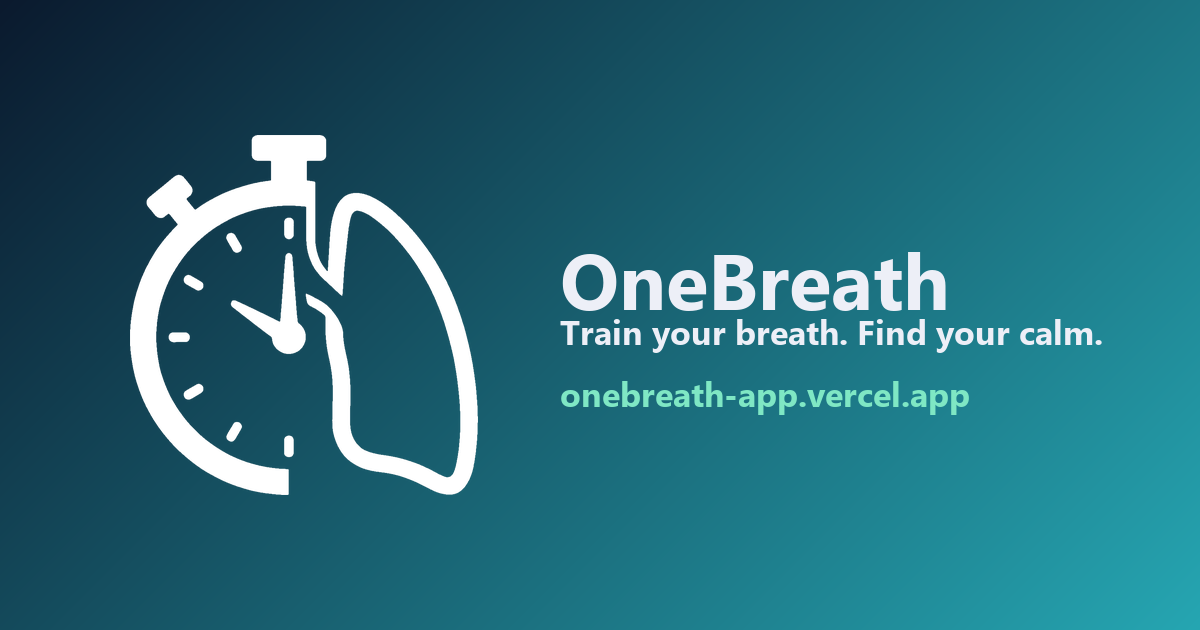
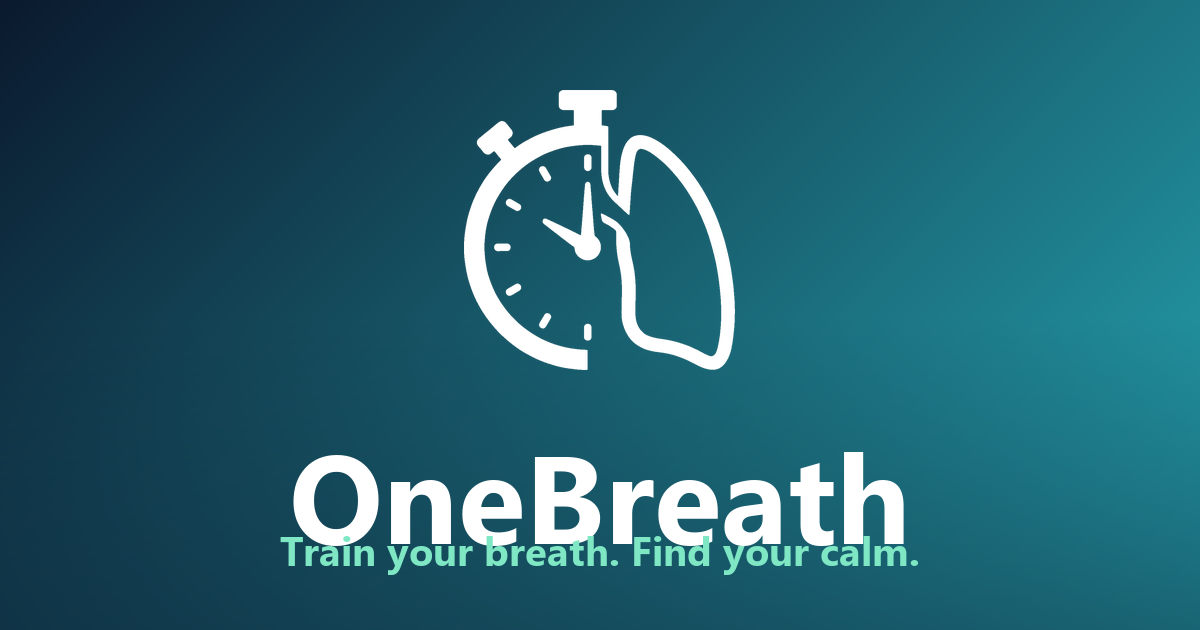
feat(web): bolder OG image for small previews
Redesigned 1200x630 social card so it stays legible at the small sizes Threads/X render previews at: large centred logo, huge bold title, mint tagline, soft vignette under the text for guaranteed contrast against the gradient.

Changed region(s): [[0.0308, 0.1206, 1.0, 1.0]]

diff --git a/scripts/generate_icons.py b/scripts/generate_icons.py
@@ -127,45 +127,48 @@ def load_font(size: int) -> ImageFont.FreeTypeFont:
 
 
 def make_og_image(symbol: Image.Image, path: Path) -> None:
-    """1200x630 social preview: logo on the left, title + tagline on the right."""
+    """1200x630 social preview, optimized to read well even at small sizes.
+
+    Layout: large logo top-centre, huge bold title below, short tagline.
+    No URL on the image itself (Threads/X show the domain anyway).
+    A dark vignette behind the text guarantees contrast against the gradient.
+    """
     width, height = 1200, 630
     bg = make_gradient_rect(width, height)
 
-    # Logo on the left third
-    logo_size = 360
+    # Soft dark vignette in the lower half so white text always pops.
+    vignette = Image.new("RGBA", (width, height), (0, 0, 0, 0))
+    vd = ImageDraw.Draw(vignette)
+    for i in range(height // 2, height):
+        alpha = int(120 * (i - height // 2) / (height // 2))
+        vd.line([(0, i), (width, i)], fill=(11, 26, 46, alpha))
+    bg = Image.alpha_composite(bg, vignette)
+
+    # Logo, large and centred above the text.
+    logo_size = 280
     sym = symbol.copy()
     sym.thumbnail((logo_size, logo_size), Image.LANCZOS)
-    logo_x = 130
-    logo_y = (height - sym.height) // 2
+    logo_x = (width - sym.width) // 2
+    logo_y = 90
     bg.paste(sym, (logo_x, logo_y), sym)
 
     draw = ImageDraw.Draw(bg)
-    title_font = load_font(78)
-    tag_font = load_font(34)
+    title_font = load_font(124)
+    tag_font = load_font(40)
 
-    text_x = 560
     title = "OneBreath"
     tagline = "Train your breath. Find your calm."
-    sub = "onebreath-app.vercel.app"
 
-    # Vertically centre the text block
     title_bbox = draw.textbbox((0, 0), title, font=title_font)
     tag_bbox = draw.textbbox((0, 0), tagline, font=tag_font)
-    sub_bbox = draw.textbbox((0, 0), sub, font=tag_font)
-    title_h = title_bbox[3] - title_bbox[1]
-    tag_h = tag_bbox[3] - tag_bbox[1]
-    sub_h = sub_bbox[3] - sub_bbox[1]
-    block_h = title_h + 24 + tag_h + 28 + sub_h
-    y = (height - block_h) // 2
+    title_w = title_bbox[2] - title_bbox[0]
+    tag_w = tag_bbox[2] - tag_bbox[0]
 
-    draw.text((text_x, y), title, fill=(237, 239, 247, 255), font=title_font)
-    draw.text((text_x, y + title_h + 24), tagline, fill=(237, 239, 247, 230), font=tag_font)
-    draw.text(
-        (text_x, y + title_h + 24 + tag_h + 28),
-        sub,
-        fill=(127, 231, 196, 255),  # accent
-        font=tag_font,
-    )
+    title_y = logo_y + sym.height + 40
+    tag_y = title_y + (title_bbox[3] - title_bbox[1]) + 18
+
+    draw.text(((width - title_w) // 2, title_y), title, fill=(255, 255, 255, 255), font=title_font)
+    draw.text(((width - tag_w) // 2, tag_y), tagline, fill=(127, 231, 196, 255), font=tag_font)
 
     bg.convert("RGB").save(path, "PNG", optimize=True)
 
